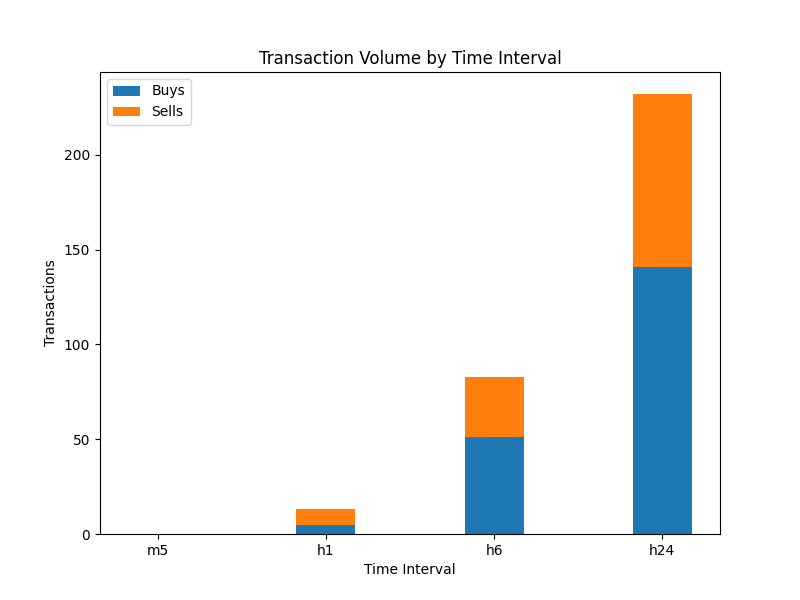
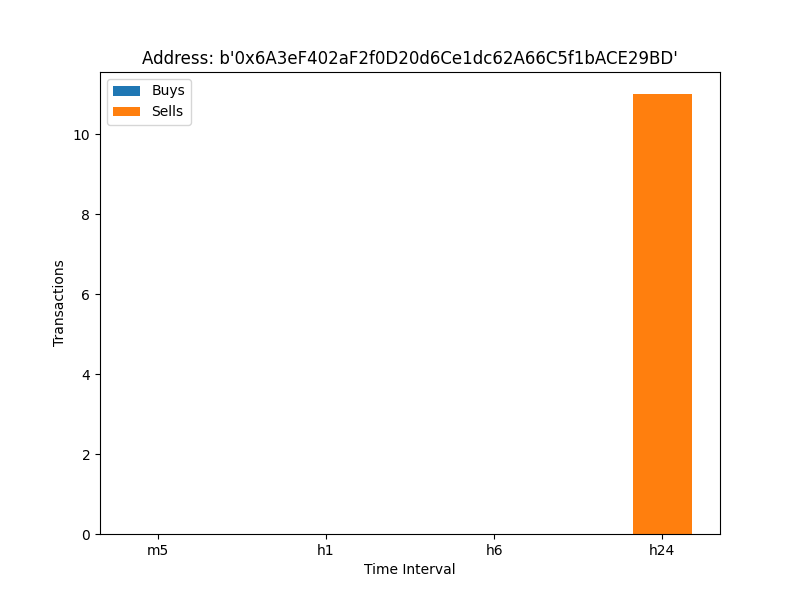
charts working

diff --git a/main.py b/main.py
@@ -277,7 +277,7 @@ def process_data():
 
                     plt.xlabel('Time Interval')
                     plt.ylabel('Transactions')
-                    plt.title('Transaction Volume by Time Interval')
+                    plt.title(f'Address: {token_pair_address.encode("utf-8") if isinstance(token_pair_address, str) else token_pair_address}')  # Handle potential encoding issues
                     plt.legend()
 
                     # Save the chart as a temporary file (consider using a dedicated temporary directory)
